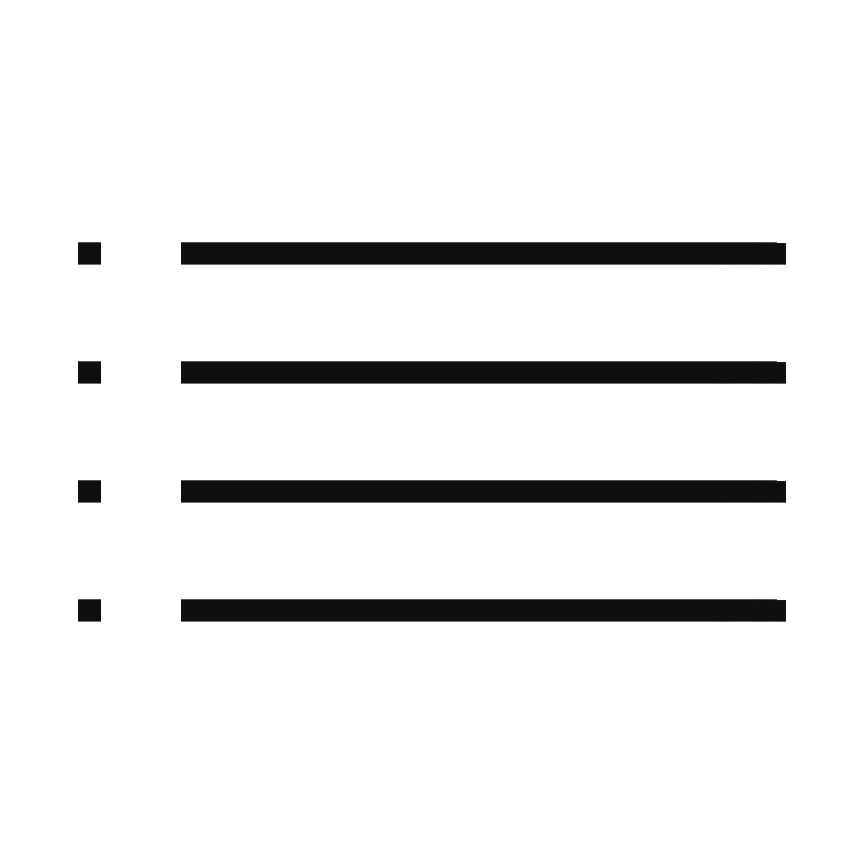
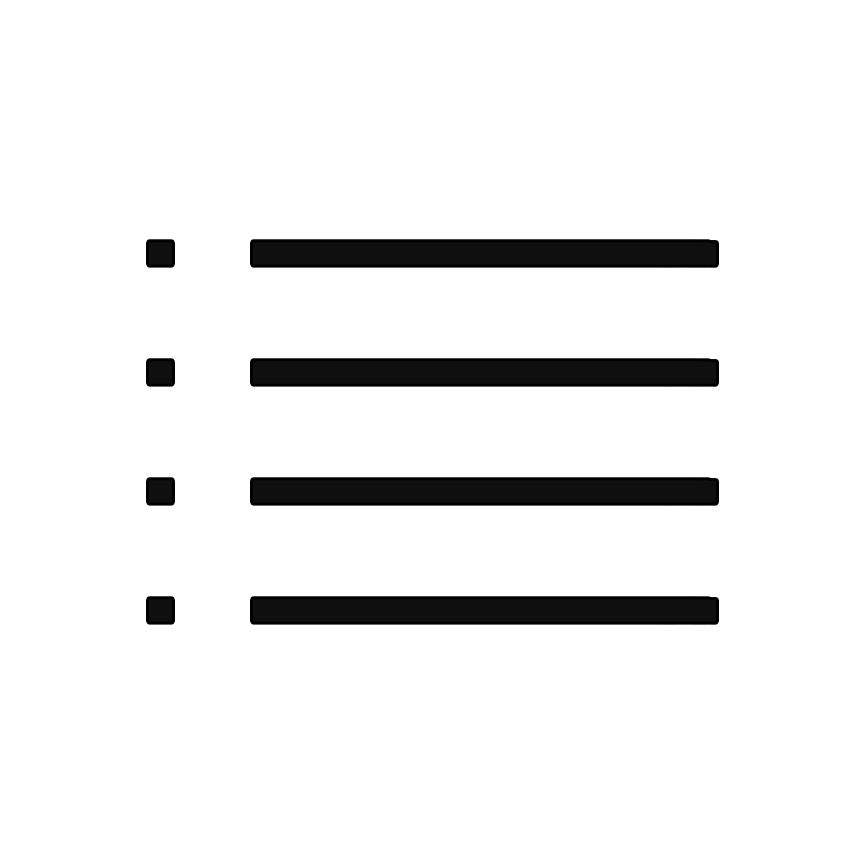
Reviews index

diff --git a/css/reviews.css b/css/reviews.css
@@ -1,0 +1,62 @@
+#index-popup h1 {
+  font-family: "GT America Extended", Helvetica Neue, sans-serif;
+  font-weight: 900;
+  font-size: 1em;
+  text-transform: uppercase;
+  margin-bottom: 4px;
+}
+
+.index-popup-overlay {
+  display: none;
+  position: fixed;
+  top: 0;
+  left: 0;
+  right: 0;
+  bottom: 0;
+  background-color: rgba(0, 0, 0, 0.5);
+  z-index: 100;
+  align-items: center;
+  justify-content: center;
+}
+
+.index-popup {
+  background-color: var(--light-color);
+  padding: 20px;
+  max-height: 80vh;
+  overflow-y: auto;
+  width: 300px;
+}
+
+#popup-index {
+  max-height: 60vh;
+  overflow-y: auto;
+}
+
+#popup-index p {
+  font-family: "Firs Neue", sans-serif;
+  font-size: 0.8em;
+  margin: 0;
+  margin-bottom: 4px;
+  user-select: none;
+}
+
+#popup-index p a {
+  color: var(--dark-color);
+  text-decoration: none;
+  display: block;
+  text-overflow: ellipsis;
+  white-space: nowrap;
+  overflow: hidden;
+}
+
+#popup-index p:hover {
+  text-decoration: underline;
+}
+
+#shuffle-button,
+#index-button {
+  width: 24px;
+  border: 1px solid black;
+  padding: 0 6px;
+  cursor: pointer;
+}

diff --git a/reviews.html b/reviews.html
@@ -6,6 +6,7 @@
     <link rel="stylesheet" href="./css/general.css" />
     <link rel="stylesheet" href="./css/subpages-general.css" />
     <link rel="stylesheet" href="./css/media-queries-subpages.css" />
+    <link rel="stylesheet" href="./css/reviews.css" />
 
     <!-- Favicon -->
     <link
@@ -71,16 +72,8 @@
       <div id="buttons">
         <p class="page-name">REVIEWS</p>
         <img
-          id="shuffle-button"
-          src="images/subpages/reviews/shuffle.png"
-          width="30px"
-          title="Go to a random review"
-          onclick="getRandomReview()"
-        />
-        <img
           id="index-button"
           src="images/subpages/reviews/menu.png"
-          width="30px"
           title="Show index"
           onclick="toggleIndexPopup()"
         />

diff --git a/js/reviews.js b/js/reviews.js
@@ -61,21 +61,6 @@ function initReviews(reviews) {
   });
 }
 
-function getRandomReview() {
-  const indexLinks = document.querySelectorAll("#index a");
-  if (indexLinks.length === 0) return;
-
-  const randomIndex = Math.floor(Math.random() * indexLinks.length);
-  const randomLink = indexLinks[randomIndex];
-
-  randomLink.click();
-
-  const reviewId = randomLink.getAttribute("href");
-  document.querySelector(reviewId).scrollIntoView({ behavior: "smooth" });
-
-  randomLink.style.fontWeight = "bold";
-}
-
 function fetchJSONData() {
   fetch(
     "https://gist.githubusercontent.com/raulberari/0d206e63880062b162d16aa4f2c3e914/raw"

diff --git a/changelog.html b/changelog.html
@@ -39,14 +39,18 @@
     </div>
 
     <div class="text-grid">
+      <h1>2025-03-17</h1>
+      <ul>
+        </li>
+        <li>Added an index button to the <a href="reviews.html">reviews</a>.</li>
+      </ul>
       <h1>2025-03-16</h1>
       <ul>
         <li>
           New review for
           <a href="reviews.html">Shift (1982)</a>;
         </li>
-        <li>Added film stills to all reviews;</li>
-        <li>Added a random button in reviews.</li>
+        <li>Added film stills to all reviews.</li>
       </ul>
       <h1>2025-03-15</h1>
       <ul>

diff --git a/index.html b/index.html
@@ -60,7 +60,7 @@
       </div>
       <a id="news-link" href="changelog.html">
         <div class="news">
-          <p>2025-03-16 • NEW REVIEW</p>
+          <p>2025-03-17 • REVIEWS INDEX</p>
         </div>
       </a>
     </div>

diff --git a/css/subpages-general.css b/css/subpages-general.css
@@ -126,8 +126,7 @@ body {
   margin-bottom: 4px;
 }
 
-.text-grid h1,
-#index-popup h1 {
+.text-grid h1 {
   font-family: "GT America Extended", Helvetica Neue, sans-serif;
   font-weight: 900;
   font-size: 1em;
